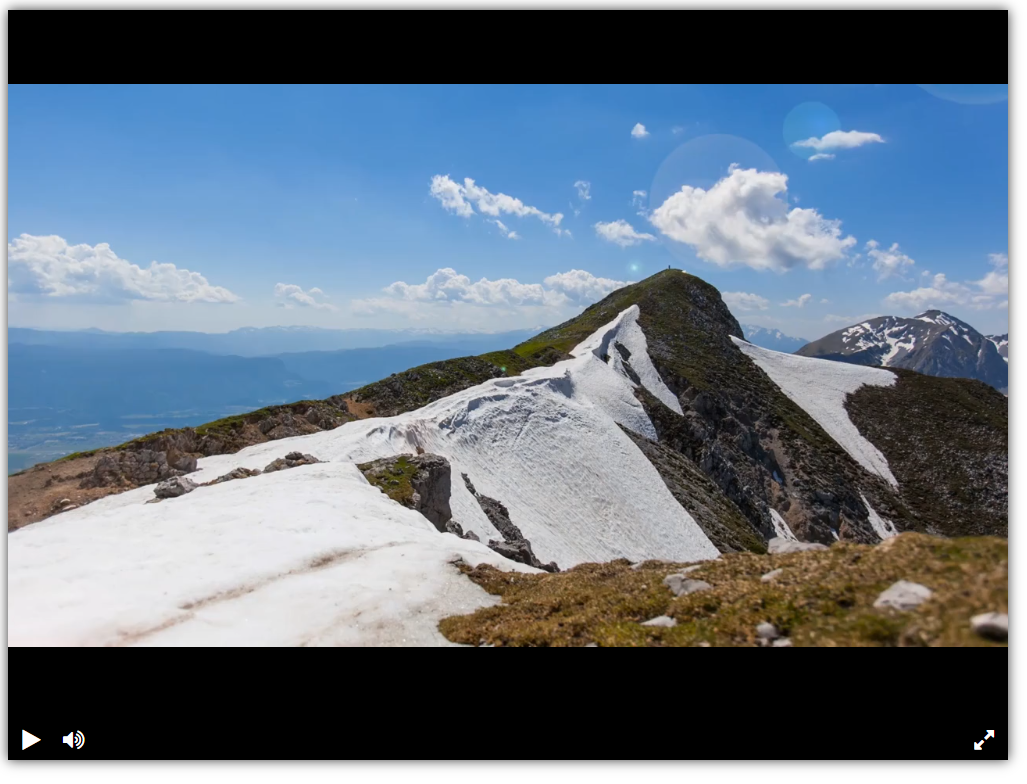
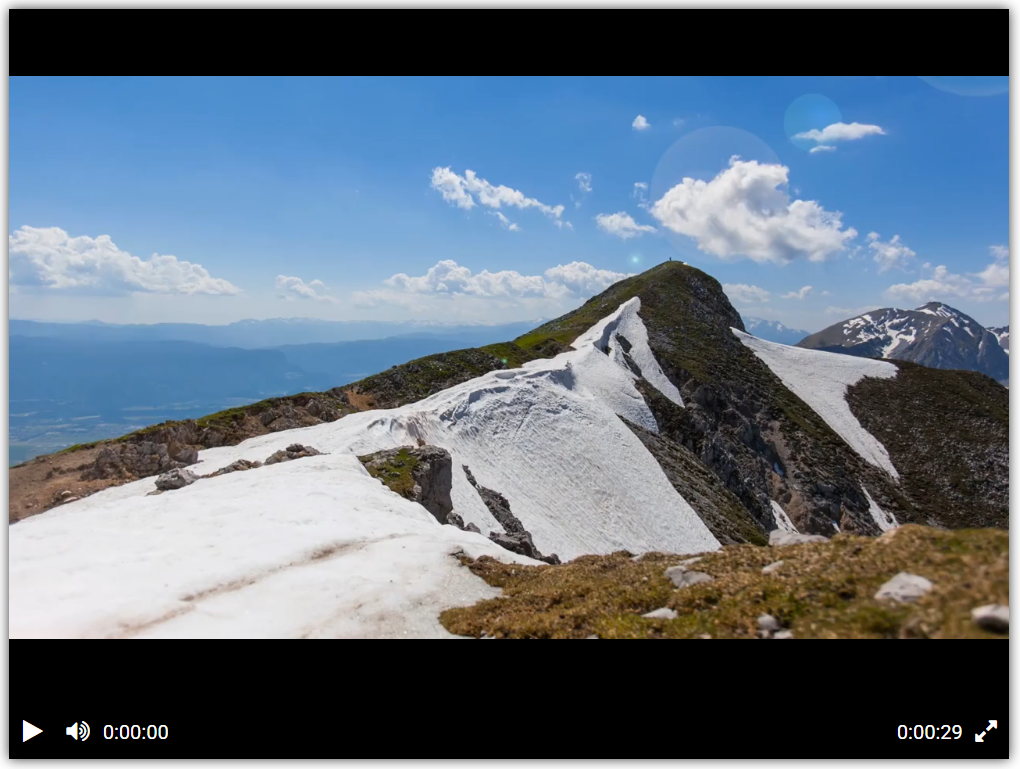
Change Readme

diff --git a/README.md b/README.md
@@ -4,17 +4,23 @@
 
 ## Интерфейс видеоплеера
 
-Чтобы ознакомиться с интерфейсом видеоплеера, перейдите по ссылке: [Смотреть](https://linalleks.github.io/Django-layout-L1/)  
+Чтобы ознакомиться с интерфейсом видеоплеера, перейдите по ссылке: [Смотреть](https://linalleks.github.io/Django-layout-L2/)  
 Вы увидите страницу, как на скриншоте:
 
 ![Скриншот сайта](screenshots/Screenshot_1.png)
 
-Видеоплеер оснащен панелью управления с кнопками:
-- ![Запуск](screenshots/Screenshot_3.png) — кнопка запуска видео-плеера. После нажатия (запуска видео) автоматически заменяется на кнопку паузы и появляется снова после окончания видео. 
-- ![Пауза](screenshots/Screenshot_5.png) — кнопка паузы видео-плеера. После нажатия (остановки видео) автоматически заменяется на кнопку запуска.
-- ![Отключение звука](screenshots/Screenshot_4.png) — кнопка, которая отключает звук плеера. После нажатия (отключения звука) автоматически заменяется на кнопку включения звука.
-- ![Включение звука](screenshots/Screenshot_6.png) — кнопка, которая включает звук. После нажатия (включения звука) автоматически заменяется на кнопку отлючения звука.
-- ![Полноэкранный режим](screenshots/Screenshot_2.png) — кнопка, которая включает полноэкранный режим. Выйти из данного режима можно с помощью клавиши `Esc` на клавиатуре.
+Видеоплеер оснащен панелью управления. На следующем скриншоте показаны 2 варианта панели, чтобы было видно все инструменты управления, а ниже их описания:  
+![Запуск](screenshots/Screenshot_2.png)
+
+1. Кнопка запуска видео-плеера. После нажатия (запуска видео) автоматически заменяется на кнопку паузы и появляется снова после окончания видео. 
+2. Кнопка паузы видео-плеера. После нажатия (остановки видео) автоматически заменяется на кнопку запуска.
+3. Кнопка, которая отключает звук плеера. После нажатия (отключения звука) автоматически заменяется на кнопку включения звука.
+4. Кнопка, которая включает звук. После нажатия (включения звука) автоматически заменяется на кнопку отлючения звука.
+5. Текущее время видео.
+6. Общая продолжительность видео.
+7. Закрашенная линия прокрутки видео, показывает какая часть видео была просмотрена.
+8. Ползунок для прокрутки видео, позволяет быстро промотать на интересный момент ролика. Управляется с помощью зажатой левой кнопки мыши. Отображается только при наведении курсора мыши на панель управления.
+9. Кнопка, которая включает полноэкранный режим. Выйти из данного режима можно с помощью клавиши `Esc` на клавиатуре.
 
 
 ## Код